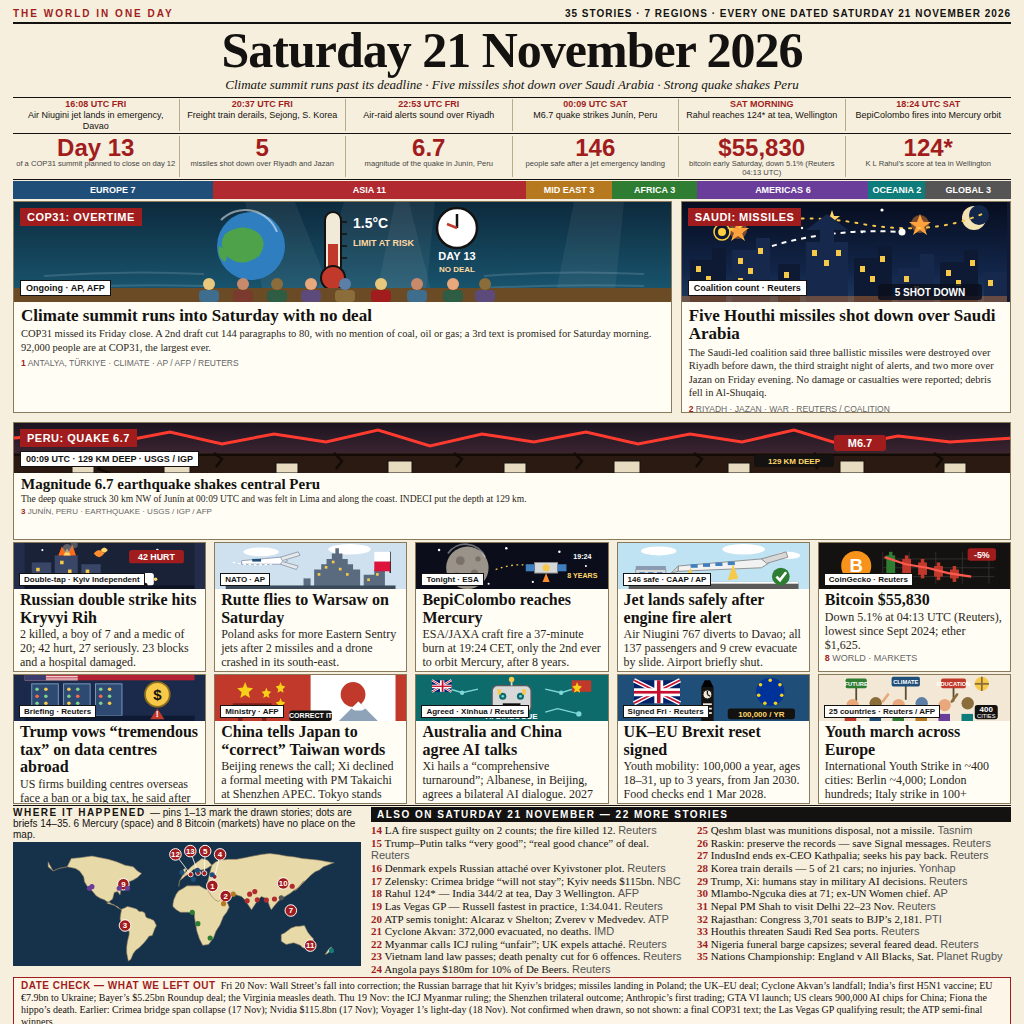
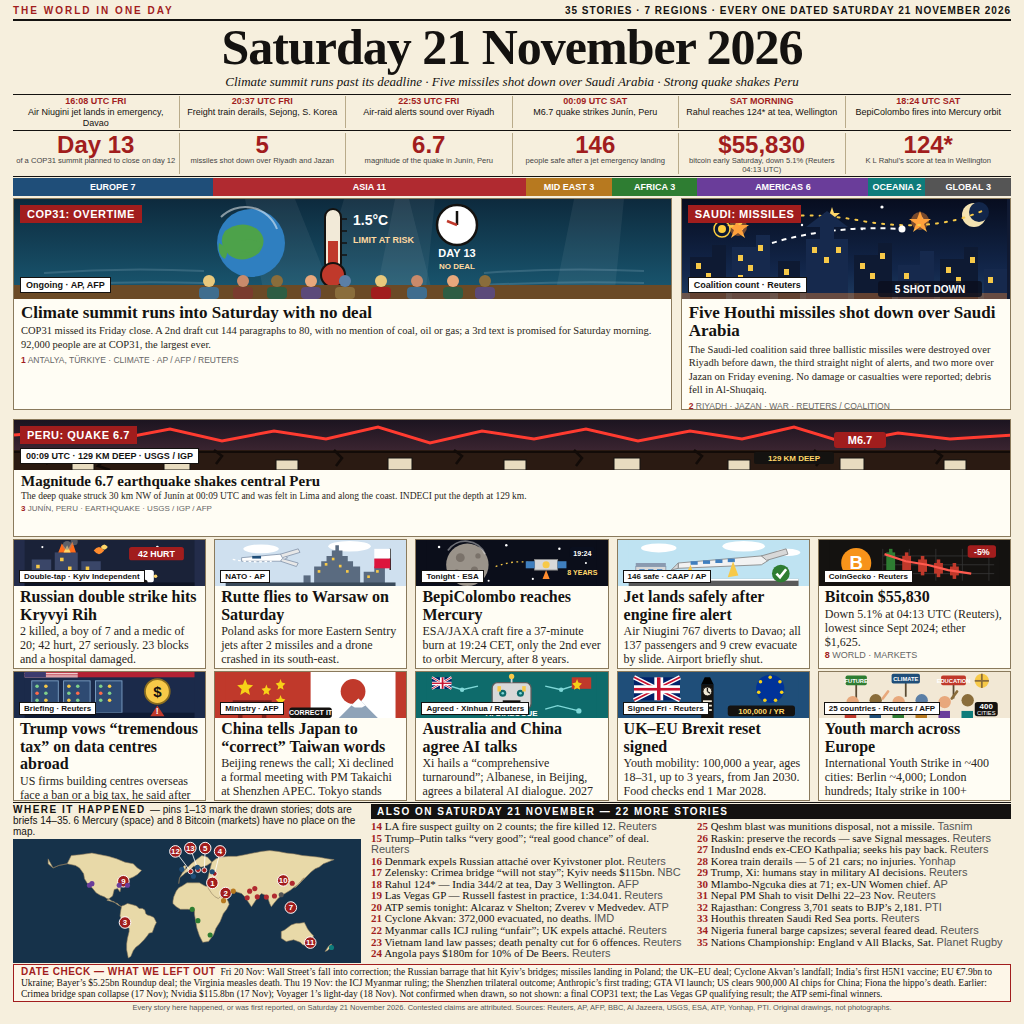
news-image-20261121 v7fix: restore sources line (briefs lh 1.05, foot 9.5px, page pad-top 5px)

Changed region(s): [[0.0, 0.0, 1.0, 1.0]]

diff --git a/page.html b/page.html
@@ -2,7 +2,7 @@
 <html><head><meta charset="utf-8"><style>
 *{margin:0;padding:0;box-sizing:border-box}
 body{width:1024px;height:1024px;background:#f6efdd;font-family:Georgia,'Times New Roman',serif;color:#141210;overflow:hidden}
-.page{width:1024px;height:1024px;padding:8px 13px 7px}
+.page{width:1024px;height:1024px;padding:5px 13px 7px}
 .kick{display:flex;justify-content:space-between;font-family:Arial,Helvetica,sans-serif;font-size:10px;font-weight:700;letter-spacing:2px;color:#a11d1d;border-bottom:2px solid #141210;padding-bottom:3px}
 .kick span:last-child{color:#141210;letter-spacing:1px}
 h1{font-size:50px;line-height:1.02;text-align:center;letter-spacing:-1px;padding-top:1px}
@@ -51,11 +51,11 @@ h1{font-size:50px;line-height:1.02;text-align:center;letter-spacing:-1px;padding
 .mapbox h4 span{font-weight:400;letter-spacing:0;text-transform:none}
 .briefs{flex:1}
 .briefs h4{background:#141210;color:#fff;padding:2px 6px}
-.briefs ol{list-style:none;columns:2;column-gap:12px;font-size:11px;line-height:1.15}
+.briefs ol{list-style:none;columns:2;column-gap:12px;font-size:11px;line-height:1.05}
 .briefs li{margin-bottom: 0;break-inside:avoid}
 .briefs b{color:#a11d1d}
 .briefs i{color:#555;font-style:normal;font-family:Arial,sans-serif;font-size:11px}
-.foot{margin-top:1px;border:1.5px solid #a11d1d;padding:2px 7px;font-size:10px;line-height:1.2;background:#fdf6e8}
+.foot{margin-top:1px;border:1.5px solid #a11d1d;padding:1px 7px;font-size:9.5px;line-height:1.15;background:#fdf6e8}
 .foot b{color:#a11d1d;font-family:Arial,sans-serif;font-size:10px;letter-spacing:.5px}
 .srcs{margin-top:1px;font-family:Arial,sans-serif;font-size:7.5px;color:#555;text-align:center}
 </style></head><body><div class="page">
